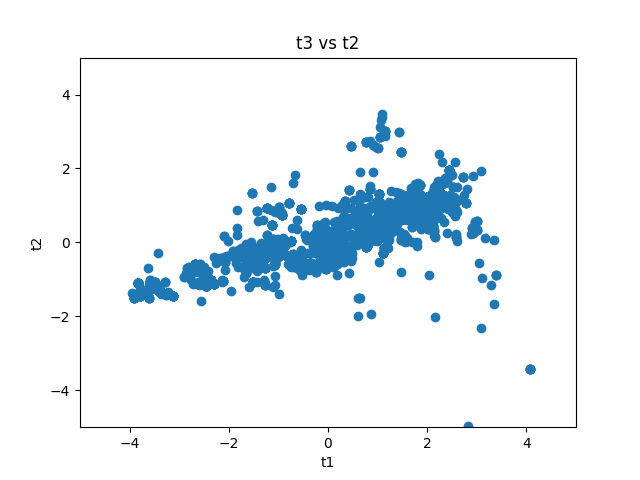
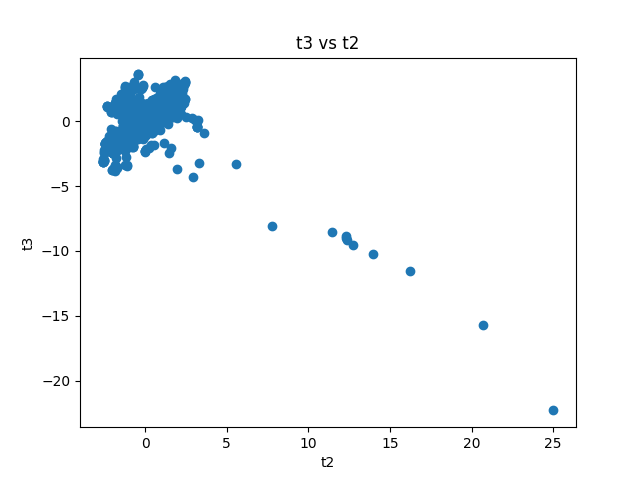
Fixed PCA for different spreadsheet

diff --git a/src/PCA.py b/src/PCA.py
@@ -11,7 +11,11 @@ import pandas as pd
 dataset = pd.read_csv("../data/High_Entropy_Alloy_Parsed.csv")
 fig_path = "../figures/PCA/"
 
-X = dataset.drop(columns=["IDENTIFIER: Reference ID", "FORMULA","PROPERTY: Microstructure", "PROPERTY: Processing method", "PROPERTY: BCC/FCC/other", "PROPERTY: Type of test"])
+X = dataset.drop(columns=["IDENTIFIER: Reference ID",
+                          "FORMULA",
+                          "Microstructure",
+                          "Processing method",
+                          "Type of test"])
 labels = list(X)
 
 X = X.to_numpy()
@@ -22,9 +26,8 @@ T,P,R2_list = pca.nipalspca(X,10)
 
 #Create some score plots
 for i in range(9):
-    tools.score_plot(T[i], T[i+1], 5, 5, f"t{i+2} vs t{i+1}", f"{fig_path}t{i+2}vst{i+1}.png")
-    tools.loadings_plot(labels[:44], P[i][:44], f"P{i+1}", f"{fig_path}p{i+1}.png")
-    tools.loadings_plot(labels[44:], P[i][44:], f"P{i+1}", f"{fig_path}p{i+1}(2).png")
+    tools.score_plot(T[i], T[i+1],f"t{i+1}",f"t{i+2}", f"t{i+2} vs t{i+1}", f"{fig_path}t{i+2}vst{i+1}.png")
+    tools.loadings_plot(labels, P[i], f"P{i+1}", f"{fig_path}p{i+1}.png")
 
 for i in range(len(R2_list)):
     print(f"{i}: \t{R2_list[i]}")

diff --git a/src/general_tools.py b/src/general_tools.py
@@ -36,14 +36,12 @@ def loadings_score_plot(t1, t2, p1, p2,  labels, x_lim, y_lim, title, path):
     fig.savefig(path)
     plt.close(fig)
 
-def score_plot(t1, t2, x_lim, y_lim, title, path):
+def score_plot(t1, t2,x_lab,y_lab, title, path):
 
     #Scatter scores
     fig,ax = plt.subplots(nrows =1, ncols=1)
-    ax.set_xlim(-1*x_lim,x_lim)
-    ax.set_xlabel("t1")
-    ax.set_ylabel("t2")
-    ax.set_ylim(-1*y_lim,y_lim)
+    ax.set_xlabel(x_lab)
+    ax.set_ylabel(y_lab)
     ax.set_title(title)
     ax.scatter(t1,t2)
 

diff --git a/src/PCA_tools.py b/src/PCA_tools.py
@@ -25,6 +25,7 @@ def nipalspca(x, A):
             t_last = t.copy()
 
             # Step 2.1: Compute loadings (p), ignoring NaNs
+
             numerator = np.nansum(components[i] * t[:, np.newaxis], axis=0)
             denominator = np.nansum(t ** 2)
             p = numerator / denominator
